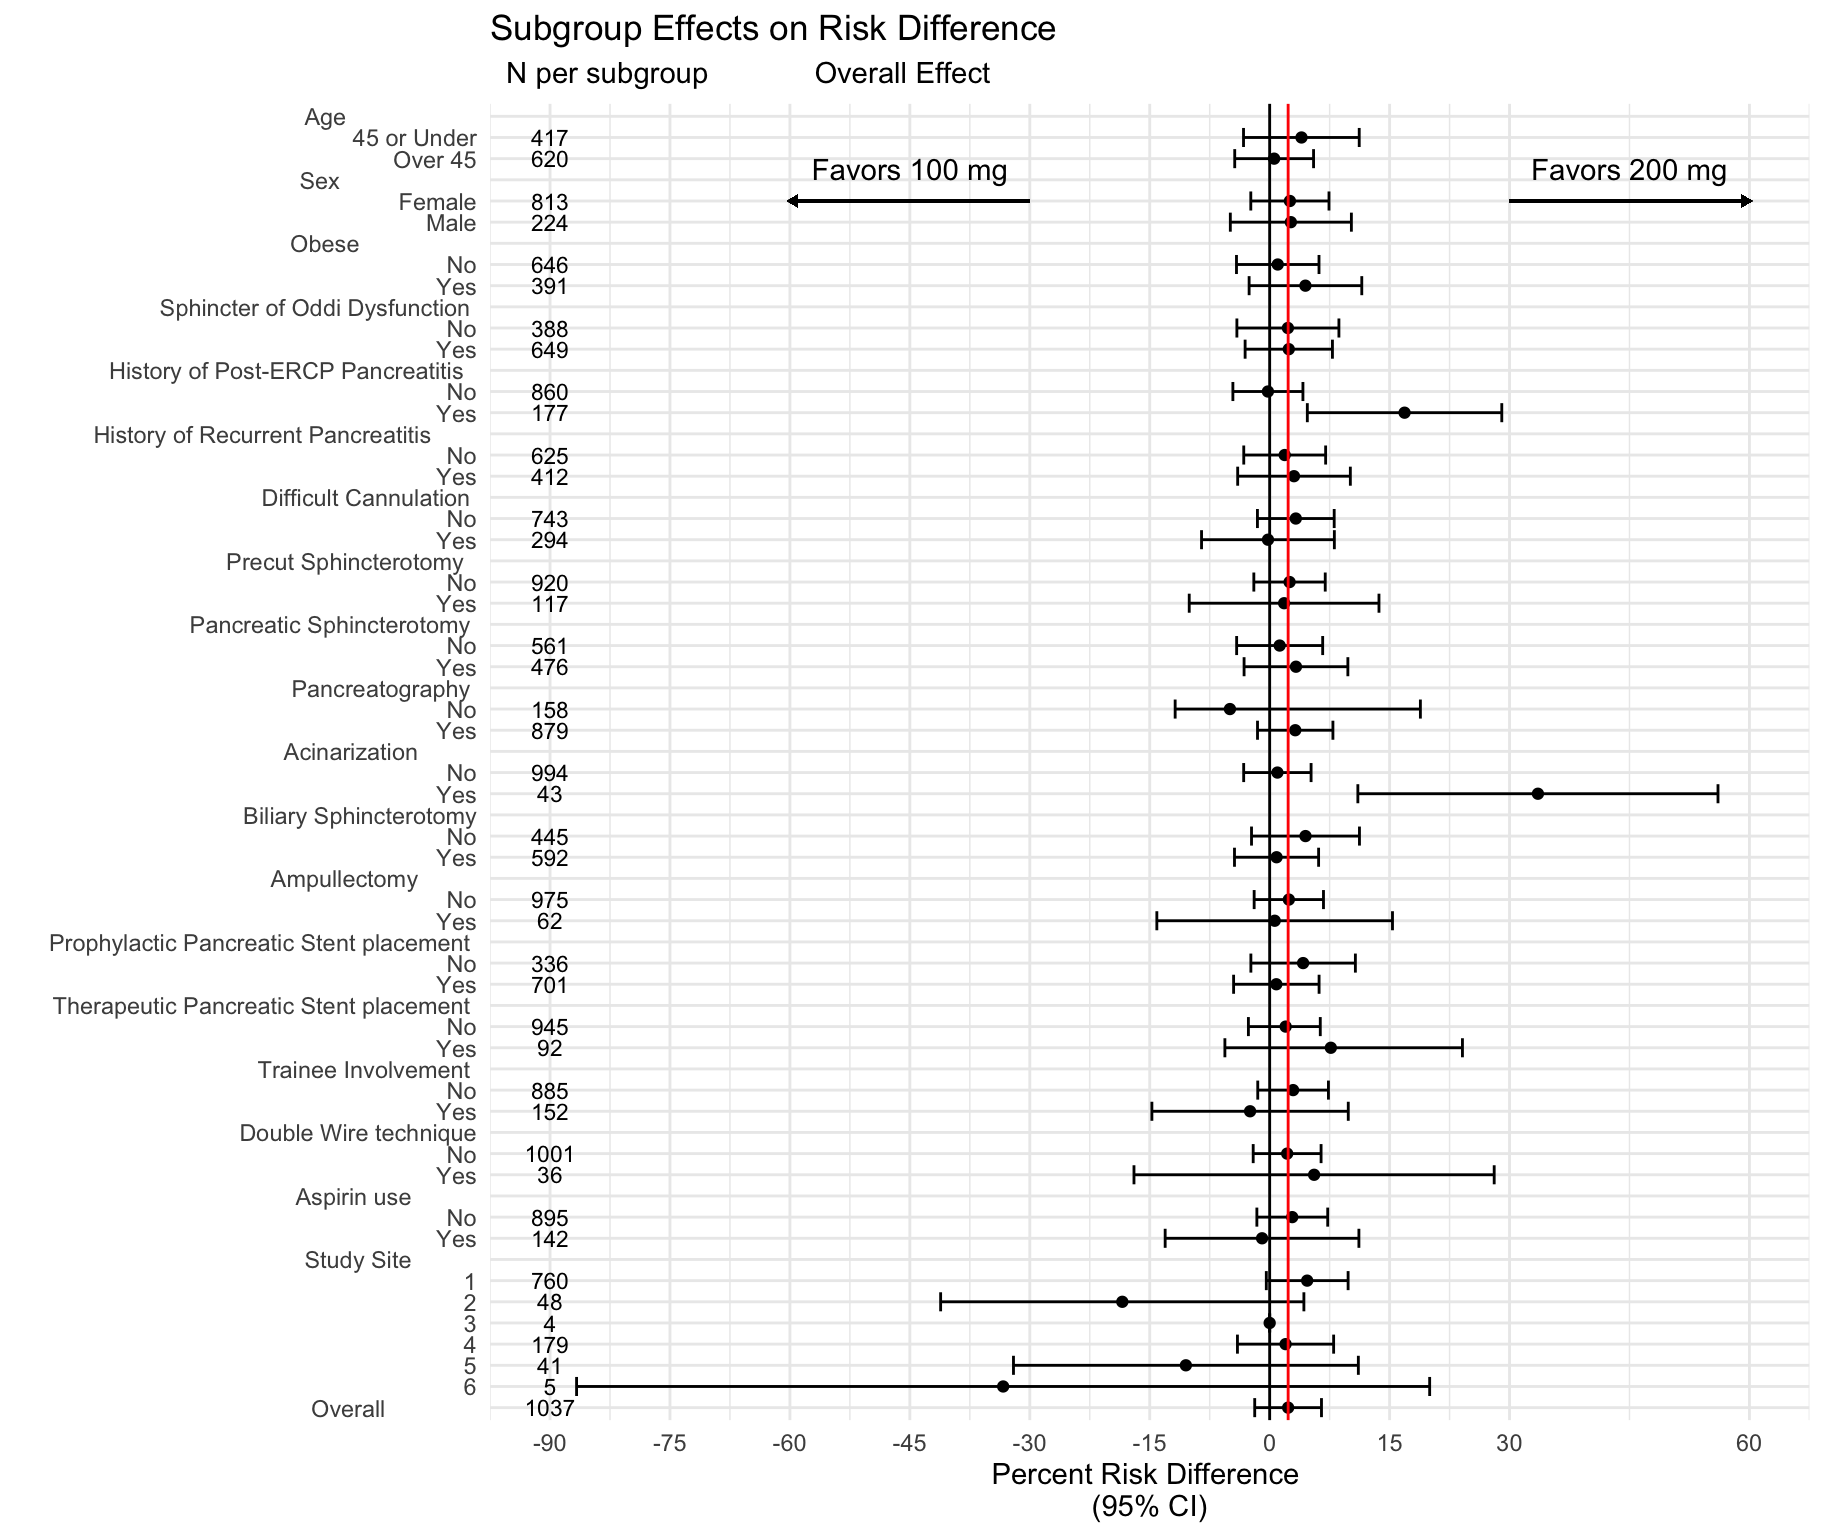
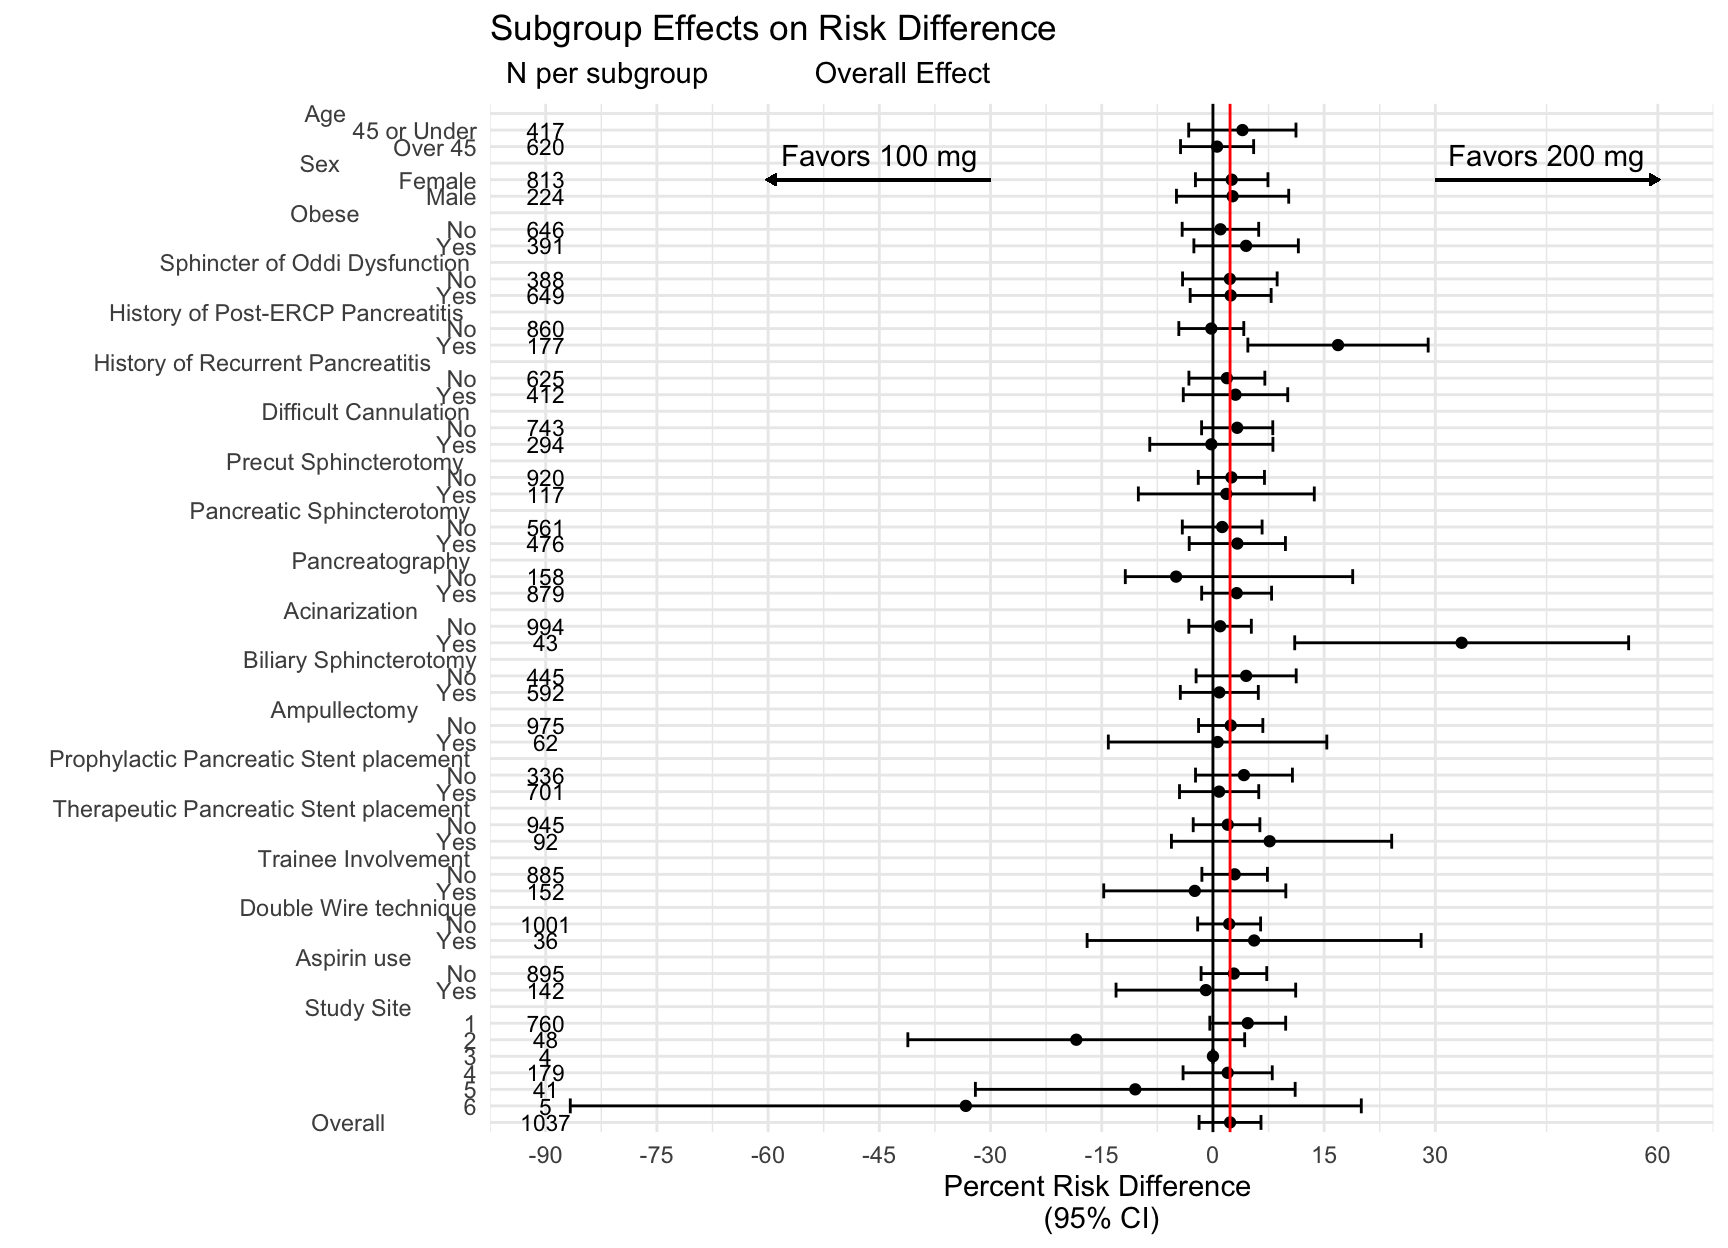
re-fixed plot size

Changed region(s): [[0.0312, 0.0, 1.0, 1.0], [0.1875, 0.875, 0.2188, 0.9375]]

diff --git a/docs/posts/2020-11-01-subgroup-plots/index.html b/docs/posts/2020-11-01-subgroup-plots/index.html
@@ -36,8 +36,8 @@
 <meta property="og:description" content="Sometimes editors ask for _post hoc_ analysis of subgroups in clinical trials, and will refuse the manuscript without them. How you can make these in R, in a somewhat kludgy way."/>
 <meta property="og:url" content="https://higgi13425.github.io/posts/2020-11-01-subgroup-plots/"/>
 <meta property="og:image" content="https://higgi13425.github.io/posts/2020-11-01-subgroup-plots/subgroup-plots_files/figure-html5/unnamed-chunk-4-1.png"/>
-<meta property="og:image:width" content="1824"/>
-<meta property="og:image:height" content="1536"/>
+<meta property="og:image:width" content="1728"/>
+<meta property="og:image:height" content="1248"/>
 <meta property="og:locale" content="en_US"/>
 <meta property="og:site_name" content="Medical R"/>
 
@@ -47,8 +47,8 @@
 <meta property="twitter:description" content="Sometimes editors ask for _post hoc_ analysis of subgroups in clinical trials, and will refuse the manuscript without them. How you can make these in R, in a somewhat kludgy way."/>
 <meta property="twitter:url" content="https://higgi13425.github.io/posts/2020-11-01-subgroup-plots/"/>
 <meta property="twitter:image" content="https://higgi13425.github.io/posts/2020-11-01-subgroup-plots/subgroup-plots_files/figure-html5/unnamed-chunk-4-1.png"/>
-<meta property="twitter:image:width" content="1824"/>
-<meta property="twitter:image:height" content="1536"/>
+<meta property="twitter:image:width" content="1728"/>
+<meta property="twitter:image:height" content="1248"/>
 <meta property="twitter:site" content="@ibddoctor"/>
 <meta property="twitter:creator" content="@ibddoctor"/>
 
@@ -1512,7 +1512,7 @@ df &lt;- tibble(group_subgroup, lcb, risk_diff_pct, ucb, number)
 df &lt;- df %&gt;%  mutate(num = as.character(1:62))
 write_xlsx(df, &quot;indomethacin_ride.xlsx&quot;)</code></pre>
 </div>
-<h2 id="building-the-plot---step-1">Building the Plot - Step 1</h2>
+<h2 id="building-the-plot---with-annotation-by-comment">Building the Plot - with Annotation by Comment</h2>
 <p>This is (mostly) a straightforward ggplot, with x as the risk difference percentage, and y the groups and subgroups, as indicated by the num variable (essentially the row number). (Comment #1)</p>
 <p>We then add <code>geom_point()</code> for the point estimates, and <code>geom_errorbarh()</code> for the confidence bounds. (Comment #2)</p>
 <p>Then we add a vertical black line to indicate the line of zero effect, and a vertical red line to indicate the overall effect. (Comment #3)</p>
@@ -1615,7 +1615,7 @@ g &lt;- ggplot(data = df, # Comment 1
   ) 
 
 g</code></pre>
-<p><img src="subgroup-plots_files/figure-html5/unnamed-chunk-4-1.png" width="912" /></p>
+<p><img src="subgroup-plots_files/figure-html5/unnamed-chunk-4-1.png" width="864" /></p>
 </div>
 <h2 id="now-save-a-nice-version---several-formats---take-your-pick">Now Save a Nice Version - Several Formats - Take your Pick</h2>
 <p>Depending on what your particular journal requires.</p>

diff --git a/_posts/2020-11-01-subgroup-plots/subgroup-plots.html b/_posts/2020-11-01-subgroup-plots/subgroup-plots.html
@@ -1098,7 +1098,7 @@ df &lt;- tibble(group_subgroup, lcb, risk_diff_pct, ucb, number)
 df &lt;- df %&gt;%  mutate(num = as.character(1:62))
 write_xlsx(df, &quot;indomethacin_ride.xlsx&quot;)</code></pre>
 </div>
-<h2 id="building-the-plot---step-1">Building the Plot - Step 1</h2>
+<h2 id="building-the-plot---with-annotation-by-comment">Building the Plot - with Annotation by Comment</h2>
 <p>This is (mostly) a straightforward ggplot, with x as the risk difference percentage, and y the groups and subgroups, as indicated by the num variable (essentially the row number). (Comment #1)</p>
 <p>We then add <code>geom_point()</code> for the point estimates, and <code>geom_errorbarh()</code> for the confidence bounds. (Comment #2)</p>
 <p>Then we add a vertical black line to indicate the line of zero effect, and a vertical red line to indicate the overall effect. (Comment #3)</p>
@@ -1201,7 +1201,7 @@ g &lt;- ggplot(data = df, # Comment 1
   ) 
 
 g</code></pre>
-<p><img src="subgroup-plots_files/figure-html5/unnamed-chunk-4-1.png" width="912" /></p>
+<p><img src="subgroup-plots_files/figure-html5/unnamed-chunk-4-1.png" width="864" /></p>
 </div>
 <h2 id="now-save-a-nice-version---several-formats---take-your-pick">Now Save a Nice Version - Several Formats - Take your Pick</h2>
 <p>Depending on what your particular journal requires.</p>
